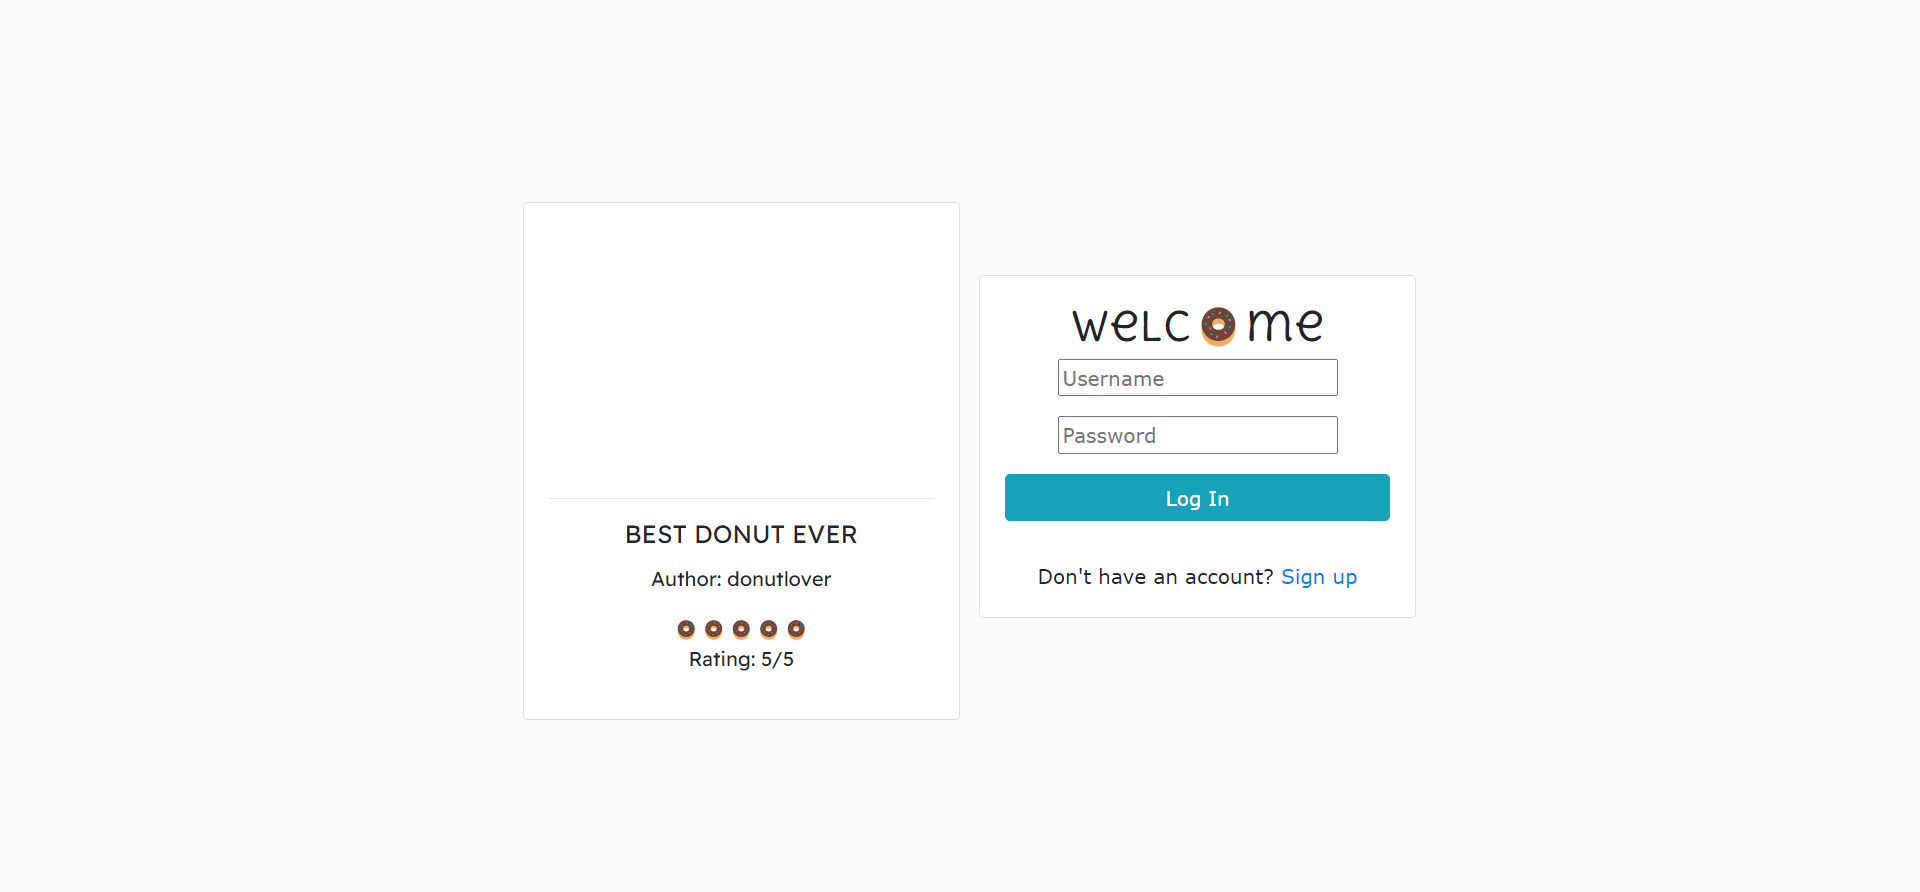
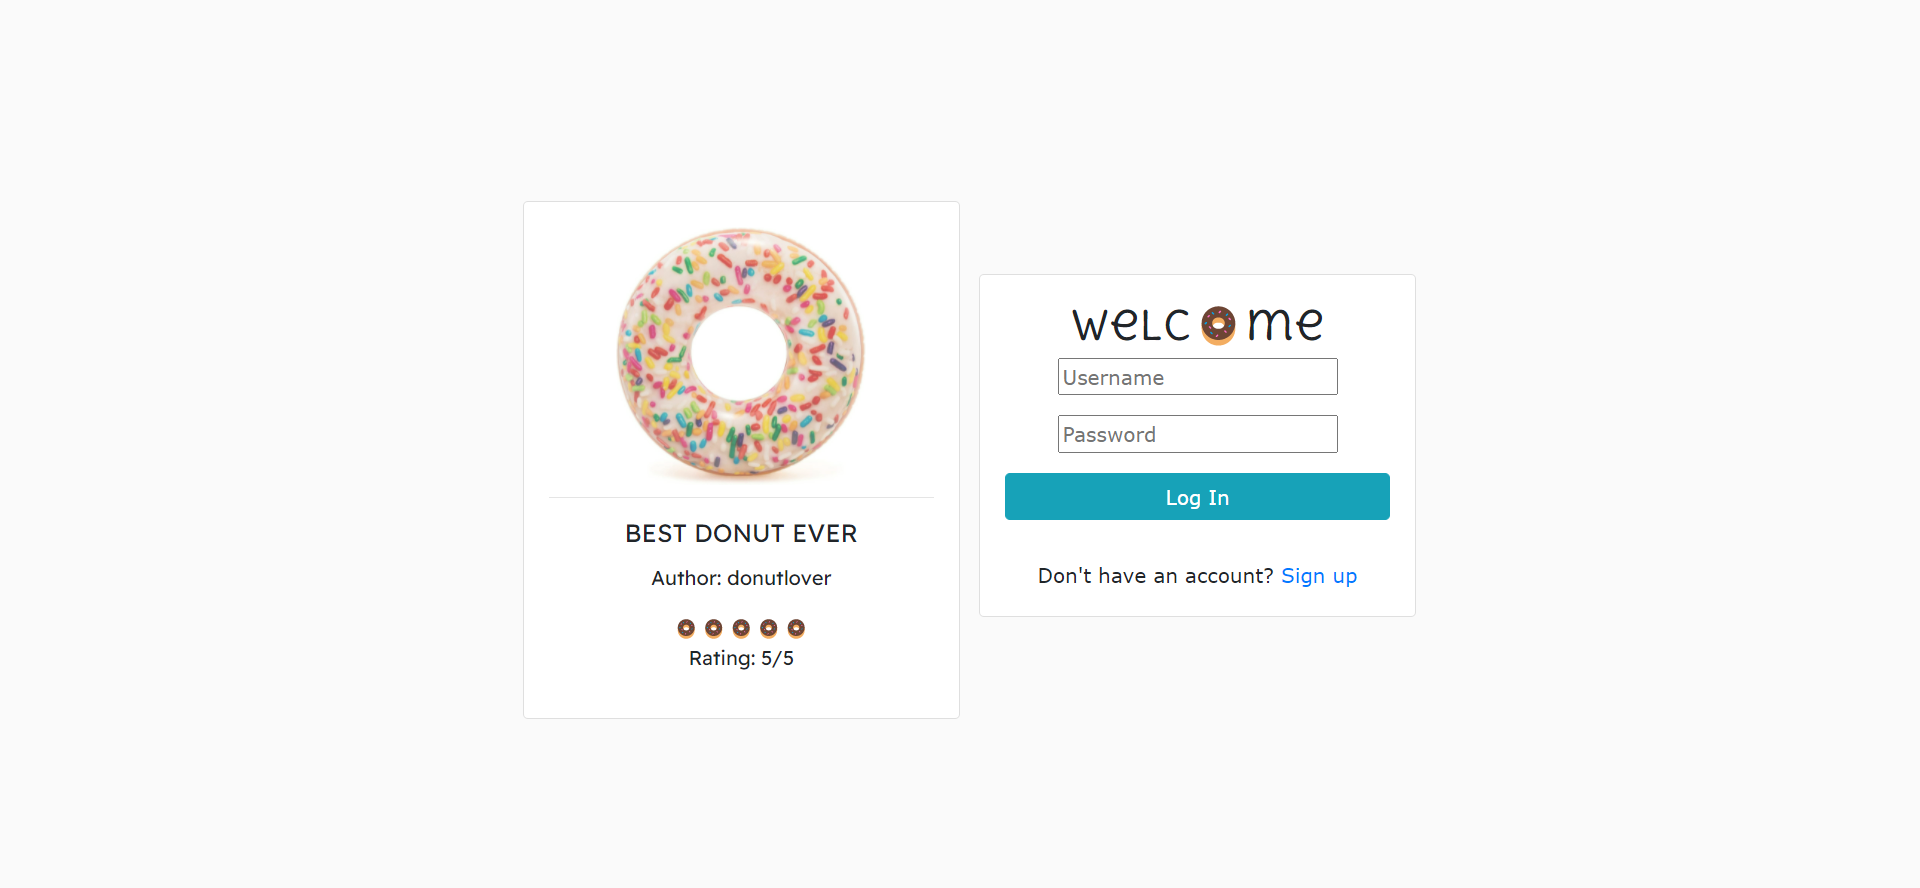
Added img project links

diff --git a/src/data.js b/src/data.js
@@ -8,35 +8,35 @@ export const projects = [
     },
     {
         id: 2,
-        img: "https://cdn.pixabay.com/photo/2017/02/16/02/54/coming-soon-2070393_960_720.jpg",
+        img: "https://i.ibb.co/Z10krcJ/teamgen.png",
         ghLink: "https://github.com/laurelthorburn/Team-Profile-Generator",
         siteLink: "https://github.com/laurelthorburn/Laurel-Thorburn-Portfolio",
         title: "Team Profile Generator"
     },
     {
         id: 3,
-        img: "https://cdn.pixabay.com/photo/2017/02/16/02/54/coming-soon-2070393_960_720.jpg",
+        img: "https://i.ibb.co/7p9SvTJ/weatherdash.png",
         ghLink: "https://github.com/laurelthorburn/Weather-Dashboard",
         siteLink: "https://github.com/laurelthorburn/Laurel-Thorburn-Portfolio", 
         title: "Weather Dashboard"
     },
     {
         id: 4,
-        img: "https://cdn.pixabay.com/photo/2017/02/16/02/54/coming-soon-2070393_960_720.jpg",
+        img: "https://i.ibb.co/hykxbTt/notetaker.png",
         ghLink: "https://github.com/laurelthorburn/Note-Taker",
         siteLink: "https://github.com/laurelthorburn/Laurel-Thorburn-Portfolio", 
         title: "Note Taker"
     },
     {
         id: 5,
-        img: "https://cdn.pixabay.com/photo/2017/02/16/02/54/coming-soon-2070393_960_720.jpg",
+        img: "https://i.ibb.co/sjfmTBW/texted.png",
         ghLink: "https://github.com/laurelthorburn/Text-Editor",
         siteLink: "https://github.com/laurelthorburn/Laurel-Thorburn-Portfolio", 
         title: "Text Editor"
     },
     {
         id: 6,
-        img: "https://cdn.pixabay.com/photo/2017/02/16/02/54/coming-soon-2070393_960_720.jpg",
+        img: "https://i.ibb.co/3Yw1dnx/techblog.png",
         ghLink: "https://github.com/laurelthorburn/Tech-Blog",
         siteLink: "https://github.com/laurelthorburn/Laurel-Thorburn-Portfolio", 
         title: "Tech Blog"
